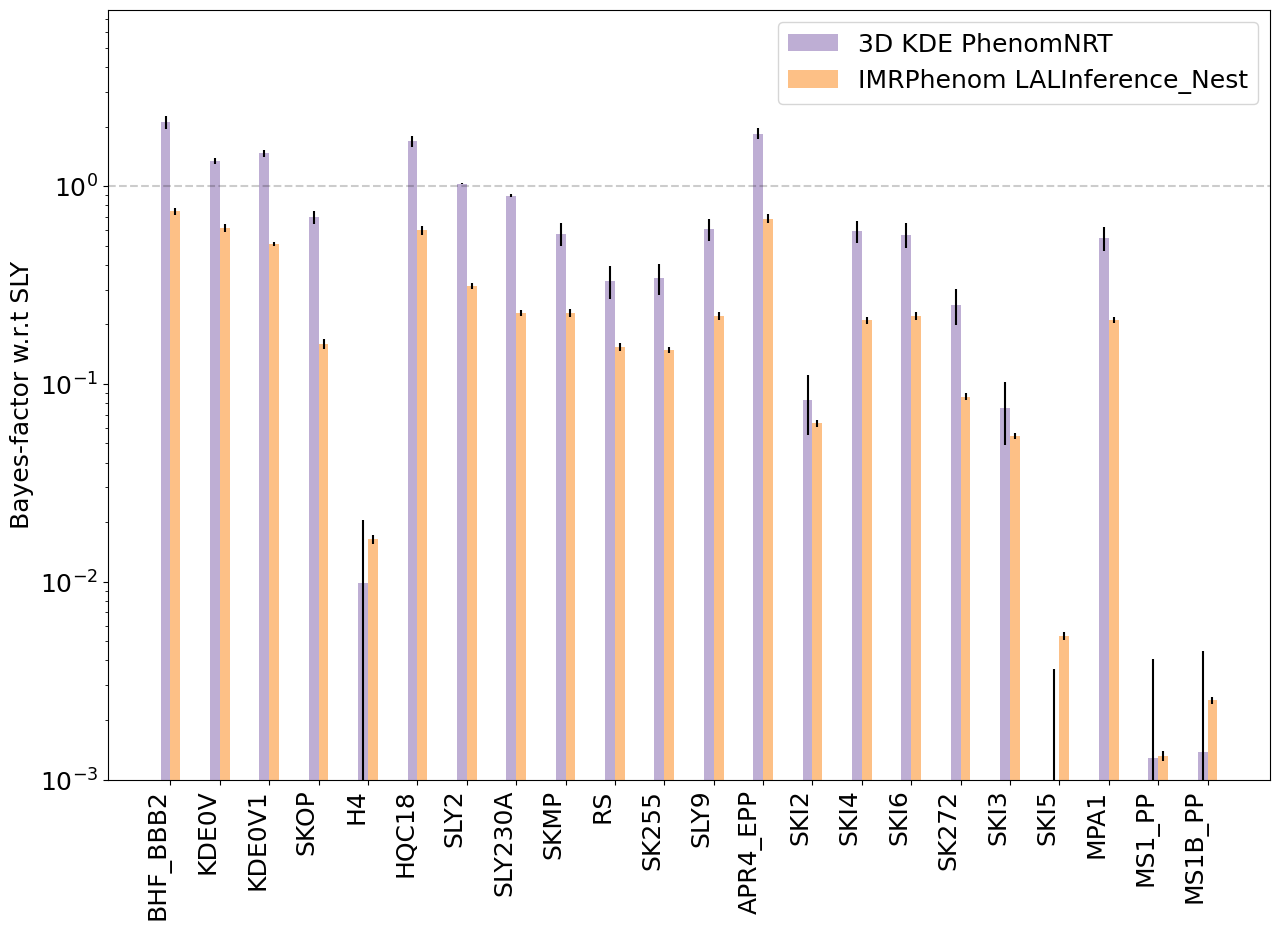
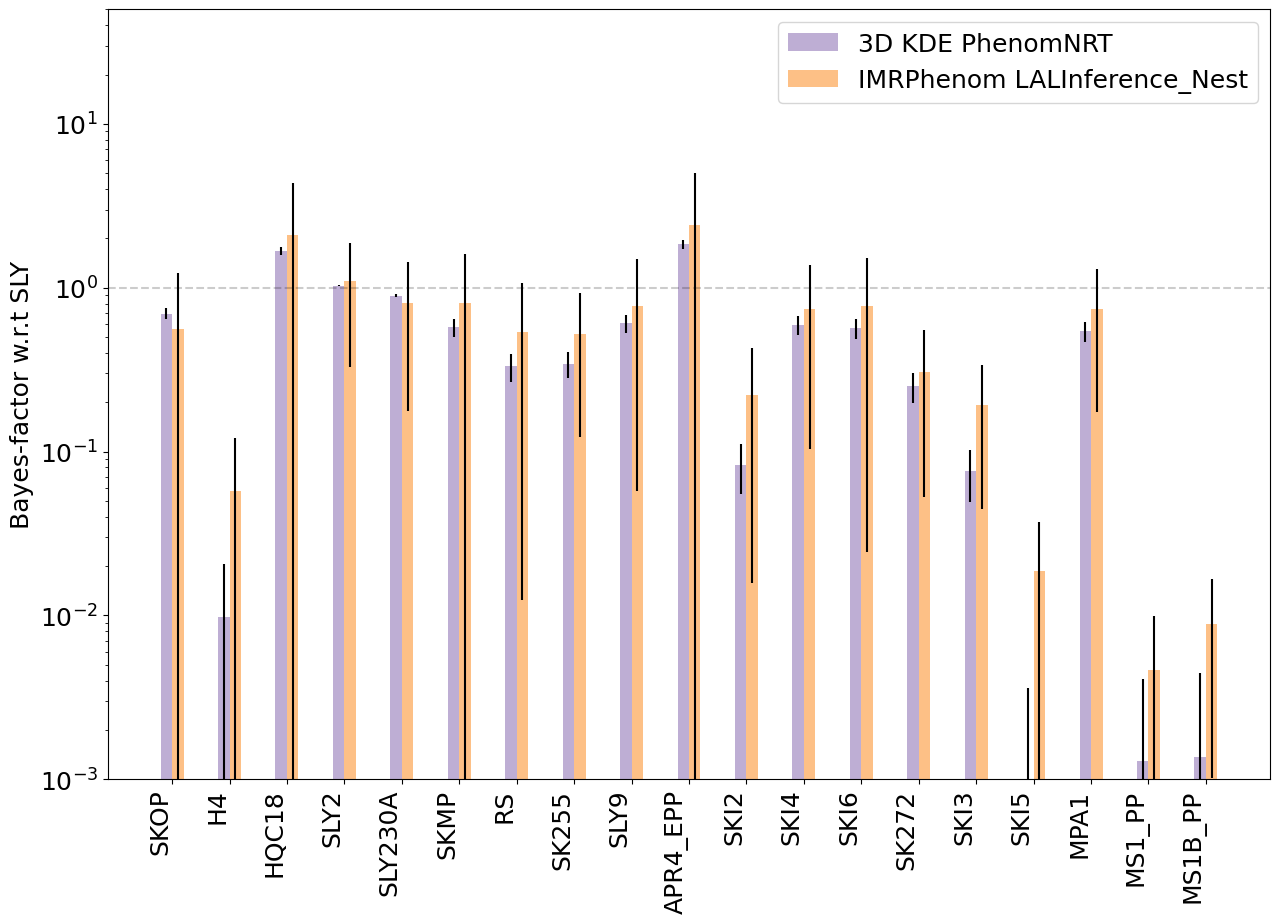
3D Phenom Nested Sampling result comparison corrected.

diff --git a/year3/lastStretch/eventBFs.py b/year3/lastStretch/eventBFs.py
@@ -12,7 +12,7 @@ def singleEventBFs(Trials=1000):
 
     uLTs_File = "/home/michael/projects/eos/GWXtreme_Tasks/year2/bilby_runs/simulations/outdir/real/uniformP_LTs/GW170817/simplified_result.json" 
     uLs_File = "/home/michael/projects/eos/GWXtreme_Tasks/year3/GW170817_prior_L1L2/CIT_attempt_successful/outdir/simplified_result.json"
-    uLs_phenom_File = "/home/michael/projects/eos/GWXtreme_Tasks/year3/lastStretch/files/GW170817phenom.json"
+    uLs_phenom_File = "/home/michael/projects/eos/GWXtreme_Tasks/year3/lastStretch/files/BNS/GW170817phenom.json"
     #uLs_phenom_File = "/home/michael/projects/eos/GWXtreme_Tasks/year3/lastStretch/files/gw230529_phenom_lowSpin.json"
     output = "data/BNS/BFs/GW170817_2D_3D_BFs.json"
     #output = "data/NSBH/BFs/GW230529_2D_3D_BFs.json"

diff --git a/year3/lastStretch/shortenJson.py b/year3/lastStretch/shortenJson.py
@@ -124,8 +124,8 @@ def simplifyRealEvent():
                 m1, m2, lambda_A, lambda_B = np.array(data['mass_1']),np.array(data['mass_2']),data[label_a],data[label_b]
                 D = 40.4 # Mpc
                 z=z_at_value(Planck18.luminosity_distance,float(D)*units.Mpc).value
-                m1 *= (1+z)
-                m2 *= (1+z)
+                m1 /= (1+z)
+                m2 /= (1+z)
                 q = m2 / m1
                 mc = ( (m1*m2)**(3/5) ) / ( (m1+m2)**(1/5) )
 
